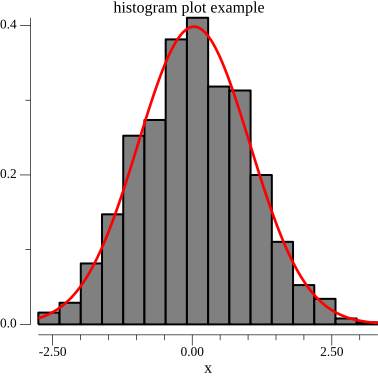
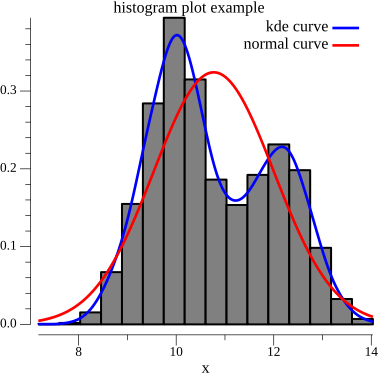
add kernel density estimation (KDE) curve to histogram

diff --git a/plotter/plotter.go b/plotter/plotter.go
@@ -4,6 +4,7 @@ import (
 	"image"
 	"image/color"
 	"log"
+	"math"
 	"os"
 
 	"gioui.org/app"
@@ -309,24 +310,55 @@ func (plt *plotParameters) Hist(x []float64, n int, options ...func(*histogramOp
 	// add the plotters to the plot
 	plt.plot.Add(h)
 
-	if plt.histogramOptions.densityCurve {
-		// calculate density curve mathematically
+	var std float64
+	var xline []float64
+	if plt.histogramOptions.kdeCurve || plt.histogramOptions.normalCurve {
 		xmin, xmax, _, _ := h.DataRange()
-		xline := Linspace(xmin, xmax, 1000)
+		xline = Linspace(xmin, xmax, 1000)
+
+		// standard deviation
+		std = math.Sqrt(stat.Variance(x, nil))
+	}
+
+	// calculate density curve (kde) mathematically
+	if plt.histogramOptions.kdeCurve {
+		n := float64(len(x))
 		yline := make([]float64, len(xline))
 
-		mean, std := stat.PopMeanStdDev(x, nil)
-		distNormal := distuv.Normal{
-			Mu:    mean,
-			Sigma: std,
+		// scott's rule
+		kernel := distuv.Normal{
+			Sigma: std * math.Pow(n, -0.2),
 		}
-		for i, x := range xline {
-			yline[i] = distNormal.Prob(x)
+		for i, xi := range xline {
+			sum := 0.0
+			for _, sample := range x {
+				sum += kernel.Prob(xi - sample)
+			}
+			yline[i] = sum / n
 		}
 
-		// add the density curve to the plot
+		// add the curve to the plot
 		plt.Plot(xline, yline,
-			WithLineColor(plt.histogramOptions.densityColor),
+			WithLineColor(plt.histogramOptions.kdeCurveColor),
+			WithLineWidth(2.0),
+		)
+	}
+
+	// calculate normal theoretical density curve mathematically
+	if plt.histogramOptions.normalCurve {
+		yline := make([]float64, len(xline))
+
+		distNormal := distuv.Normal{
+			Mu:    stat.Mean(x, nil),
+			Sigma: std,
+		}
+		for i, xi := range xline {
+			yline[i] = distNormal.Prob(xi)
+		}
+
+		// add the curve to the plot
+		plt.Plot(xline, yline,
+			WithLineColor(plt.histogramOptions.normalCurveColor),
 			WithLineWidth(2.0),
 		)
 	}

diff --git a/plotter/histogram.go b/plotter/histogram.go
@@ -8,12 +8,14 @@ import (
 )
 
 type histogramOptions struct {
-	fillColor    color.Color
-	lineColor    color.Color
-	lineStyle    []vg.Length
-	lineWidth    font.Length
-	densityCurve bool
-	densityColor color.Color
+	fillColor        color.Color
+	lineColor        color.Color
+	lineStyle        []vg.Length
+	lineWidth        font.Length
+	kdeCurve         bool
+	kdeCurveColor    color.Color
+	normalCurve      bool
+	normalCurveColor color.Color
 }
 
 func WithHistFillColor(color colorType) func(*histogramOptions) {
@@ -40,9 +42,16 @@ func WithHistLineStyle(style lineStyleType) func(*histogramOptions) {
 	}
 }
 
+func WithHistKDECurve(color colorType) func(*histogramOptions) {
+	return func(ho *histogramOptions) {
+		ho.kdeCurve = true
+		ho.kdeCurveColor = color
+	}
+}
+
 func WithHistNormalCurve(color colorType) func(*histogramOptions) {
 	return func(ho *histogramOptions) {
-		ho.densityCurve = true
-		ho.densityColor = color
+		ho.normalCurve = true
+		ho.normalCurveColor = color
 	}
 }

diff --git a/examples/histogram/histogram.go b/examples/histogram/histogram.go
@@ -8,9 +8,13 @@ import (
 
 func main() {
 	// histogram plot
-	x := make([]float64, 1000)
+	x := make([]float64, 5000)
 	for i := range x {
-		x[i] = rand.NormFloat64()
+		if rand.Float64() < 0.65 {
+			x[i] = 10 + 0.7*rand.NormFloat64()
+		} else {
+			x[i] = 12.2 + 0.6*rand.NormFloat64()
+		}
 	}
 
 	plt := plotter.NewPlot()
@@ -18,9 +22,11 @@ func main() {
 
 	plt.Hist(x, 16,
 		plotter.WithHistFillColor(plotter.Gray),
+		plotter.WithHistKDECurve(plotter.Blue),
 		plotter.WithHistNormalCurve(plotter.Red),
 	)
 	plt.Title("histogram plot example")
+	plt.Legend("kde curve", "normal curve")
 	plt.XLabel("x")
 
 	plt.Show()

diff --git a/README.md b/README.md
@@ -139,9 +139,13 @@ import (
 
 func main() {
 	// histogram plot
-	x := make([]float64, 1000)
+	x := make([]float64, 5000)
 	for i := range x {
-		x[i] = rand.NormFloat64()
+		if rand.Float64() < 0.65 {
+			x[i] = 10 + 0.7*rand.NormFloat64()
+		} else {
+			x[i] = 12.2 + 0.6*rand.NormFloat64()
+		}
 	}
 
 	plt := plotter.NewPlot()
@@ -149,9 +153,11 @@ func main() {
 
 	plt.Hist(x, 16,
 		plotter.WithHistFillColor(plotter.Gray),
-		plotter.WithHistDensityCurve(plotter.Red),
+		plotter.WithHistKDECurve(plotter.Blue),
+		plotter.WithHistNormalCurve(plotter.Red),
 	)
 	plt.Title("histogram plot example")
+	plt.Legend("kde curve", "normal curve")
 	plt.XLabel("x")
 	plt.Save("histogram.png")
 }
